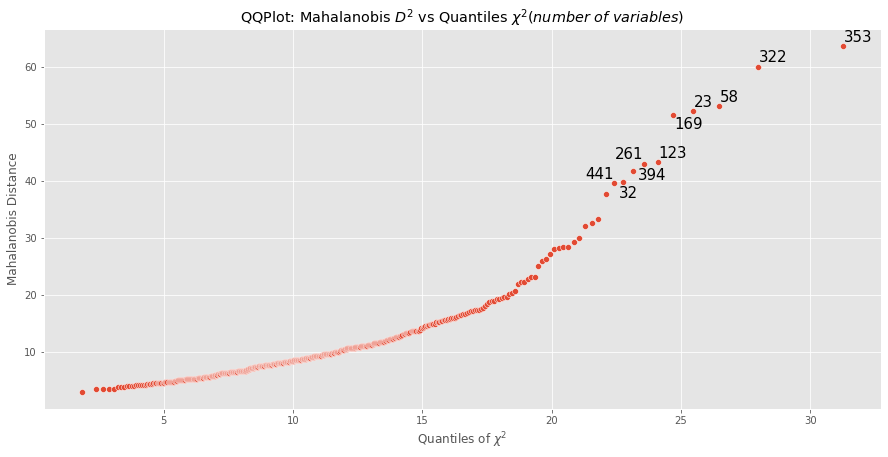
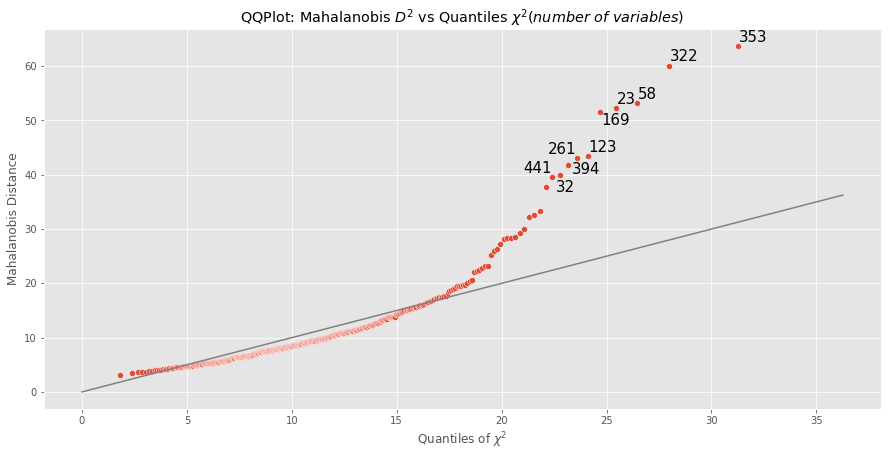
Add line outliers vis function
+ Mispelling errors in visualization py and readme

diff --git a/broomlib/visualization.py b/broomlib/visualization.py
@@ -26,6 +26,7 @@ def missing_bars(data,figsize=(10, 3), style='ggplot'):
     figure
     -----------
     Example:
+    import seaborn as sns
     titanic = sns.load_dataset("titanic")
     missing_bars(titanic, figsize=(10, 3), style='ggplot')
     """
@@ -70,6 +71,7 @@ def missing_heatmap(df, figsize=(12, 10), style='ggplot', cmap='RdYlBu'):
     figure
     -----------
     Example:
+    import seaborn as sns
     titanic = sns.load_dataset("titanic")
     missing_heatmap(titanic, figsize=(6, 4), style='ggplot', cmap='RdYlBu')
     """
@@ -104,6 +106,7 @@ def missing_matrix(df, figsize=(12, 12), style='ggplot', cmap='PuBu'):
     figure
     -----------
     Example:
+    import seaborn as sns
     titanic = sns.load_dataset("titanic")
     missing_matrix(titanic, figsize=(10, 3), style='ggplot', cmap='PuBu')
     '''
@@ -135,7 +138,8 @@ def grid_displots(df, figsize=(12, 4), cols=3, bins=20, style='ggplot', fontsize
     Returns:
     figure
     -----------
-    Example:        
+    Example:
+    import seaborn as sns
     tips = sns.load_dataset('tips')
     grid_displots(tips, figsize=(15, 3), cols=3, bins=20, fontsize=15, y_space=0.5, style='ggplot',)
     """
@@ -176,8 +180,9 @@ def grid_boxplots(df, figsize=(15, 15), cols=3, style='ggplot', fontsize=12, y_s
     figure
     -----------
     Example:
+    import seaborn as sns
     tips = sns.load_dataset('tips')
-    grid_boxplots(tips, figsize=(15, 3), cols=3, bins=20, fontsize=15, y_space=0.5, style='ggplot')
+    grid_boxplots(tips, figsize=(15, 3), cols=3, fontsize=15, y_space=0.5, style='ggplot')
     """
     df= df.loc[:, (df.dtypes == 'int64') | (df.dtypes == 'float64') | (df.dtypes == 'int32')]
     rows = int(np.ceil(float(df.shape[1]) / cols))
@@ -215,7 +220,8 @@ def grid_cat_bars(df, n_categories=10 ,figsize=(12, 4), cols=3, bins=20, style='
     Returns:
     figure
     -----------
-    Example:        
+    Example:
+    import seaborn as sns
     tips = sns.load_dataset('tips')
     grid_cat_bars(tips, figsize=(15, 10), cols=3, fontsize=15, y_space=0.35, style='ggplot',)
     """
@@ -259,7 +265,8 @@ def grid_cat_target_bars(df, target, n_categories=10, figsize=(12, 4), cols=3, b
     Returns:
     figure
     -----------
-    Example:       
+    Example:
+    import seaborn as sns
     titanic = sns.load_dataset("titanic")
     grid_cat_target_bars(titanic, target=titanic['survived'], figsize=(15, 10), cols=3, fontsize=15, y_space=0.55, style='ggplot')
     """
@@ -299,7 +306,8 @@ def corr_bars(data, threshold, figsize=(10, 3), style='ggplot'):
     Returns:
     figure
     -----------
-    Example:       
+    Example:
+    import seaborn as sns
     mpg = sns.load_dataset('mpg')
     corr_bars(mpg, threshold=0.6, figsize=(13, 6))
     """
@@ -327,12 +335,13 @@ def corr_bars(data, threshold, figsize=(10, 3), style='ggplot'):
 
 
 
-def outliers_mahalanobis_plot(x, extreme_points=10, figsize=(15,7), style='ggplot'):
+def outliers_mahalanobis_plot(x = None, extreme_points = 10, style = 'ggplot', figsize = (15,7)):
     """
     -----------
     Function description:
     Shows outliers of dataset. It compares Mahalanobis Distance of each point to Chi Square Distribution. 
-    Points with index are the most extreme ones (outliers) in the dataset. 
+    Points with index are the most extreme points (outliers) in the dataset. Straight line indicates how far 
+    are points from empirical distribution to theoretical one.
     Function works with numerical features.
     -----------
     Parameters:
@@ -345,11 +354,12 @@ def outliers_mahalanobis_plot(x, extreme_points=10, figsize=(15,7), style='ggplo
     figure
     -----------
     Example:
+    import pandas as pd
+    from sklearn import datasets
     diabetes = datasets.load_diabetes()
     df = pd.DataFrame(diabetes.data)
     outliers_mahalanobis_plot(df, extreme_points=10, figsize=(15,7), style='ggplot')
     """
-
     dif = x - np.mean(x)
     cov = np.cov(x.T)
     inv = sp.linalg.inv(cov)
@@ -370,10 +380,12 @@ def outliers_mahalanobis_plot(x, extreme_points=10, figsize=(15,7), style='ggplo
                        for i, txt in enumerate(extreme.index)]
         adjust_text(texto_puntos)
         
+        x = np.linspace(0,extreme.chi[np.argmax(dist)]+5,5)
+        y = x
+        plt.plot(x, y, '-r', color = "blue")
         plt.title(r'QQPlot: Mahalanobis $D^2$ vs Quantiles $\chi^2(number \ of \ variables)$')
         plt.xlabel(r'Quantiles of $\chi^2$')
         plt.ylabel('Mahalanobis Distance')
-    
     return plt.show()
 
  

diff --git a/README/readme_visualization.md b/README/readme_visualization.md
@@ -1,12 +1,19 @@
+# `brommlib visualization`
 
+There are 2 common parameters for broomlib visualizations
+- `figsize`: a numeric tuple. This is usefull to adjust the size and proporcion of the image.
+- `style`: a matplotlib style. Use `plt.style.available` to find out available styles.
+
+<p><br></p>
 
 ## `missing_bars`
 Presents a ‘pandas’ barh plot with the percentage of missings for each feature.
 
 ```
-from broomlib import visualization as bl
+from broomlib import visualization as vis
+import seaborn as sns
 titanic = sns.load_dataset("titanic")
-bl.missing_bars(titanic, figsize=(10, 3), style='ggplot')
+vis.missing_bars(titanic, figsize=(10, 3), style='ggplot')
 ```
 
 ![](images/missing_bars.png)
@@ -18,9 +25,10 @@ bl.missing_bars(titanic, figsize=(10, 3), style='ggplot')
 Presents a ‘seaborn’ visualization of the nulls in the given DataFrame.
 
 ```
-from broomlib import visualization as bl
+from broomlib import visualization as vis
+import seaborn as sns
 titanic = sns.load_dataset("titanic")
-bl.missing_heatmap(titanic, figsize=(6, 4), style='ggplot', cmap='RdYlBu_r')
+vis.missing_heatmap(titanic, figsize=(6, 4), style='ggplot', cmap='RdYlBu_r')
 ```
 
 ![](images/missing_matrix.png)
@@ -32,9 +40,10 @@ bl.missing_heatmap(titanic, figsize=(6, 4), style='ggplot', cmap='RdYlBu_r')
 Presents a ‘seaborn’ heatmap visualization of nullity correlation in the given DataFrame.
 
 ```
-from broomlib import visualization as bl
+from broomlib import visualization as vis
+import seaborn as sns
 titanic = sns.load_dataset("titanic")
-bl.missing_heatmap(titanic, figsize=(6, 4), style='ggplot', cmap='RdYlBu_r')
+vis.missing_heatmap(titanic, figsize=(6, 4), style='ggplot', cmap='RdYlBu_r')
 ```
 
 ![](images/missing_heatmap.png)
@@ -47,9 +56,10 @@ Presents the distribution of each numerical variable.
 Function works with numerical features.
 
 ```
-from broomlib import visualization as bl
+from broomlib import visualization as vis
+import seaborn as sns
 tips = sns.load_dataset('tips')
-bl.grid_displots(tips, figsize=(15, 3), cols=3, bins=20, fontsize=15, y_space=0.5, style='ggplot')
+vis.grid_displots(tips, figsize=(15, 3), cols=3, bins=20, fontsize=15, y_space=0.5, style='ggplot')
 ```
 
 ![](images/grid_displots.png)
@@ -61,9 +71,10 @@ bl.grid_displots(tips, figsize=(15, 3), cols=3, bins=20, fontsize=15, y_space=0.
 Presents a ‘seaborn’ boxplot visualization of each numeric column in the given DataFrame.
 
 ```
-from broomlib import visualization as bl
+from broomlib import visualization as vis
+import seaborn as sns
 tips = sns.load_dataset('tips')
-bl.grid_boxplots(tips, figsize=(12, 3), cols=3, bins=20, fontsize=15, y_space=0.5, style='ggplot')
+vis.grid_boxplots(tips, figsize=(12, 3), cols=3, fontsize=15, y_space=0.5, style='ggplot')
 ```
 
 ![](images/grid_boxplots.png)
@@ -76,9 +87,10 @@ Shows the distribution of each categorical variable compared with the categorica
 Function works with categorical features.
 
 ```
-from broomlib import visualization as bl
+from broomlib import visualization as vis
+import seaborn as sns
 tips = sns.load_dataset('tips')
-bl.grid_cat_bars(tips, figsize=(12, 8), cols=2, fontsize=15, y_space=0.5, style='ggplot')
+vis.grid_cat_bars(tips, figsize=(12, 8), cols=2, fontsize=15, y_space=0.5, style='ggplot')
 ```
 
 ![](images/grid_cat_bars.png)
@@ -91,9 +103,10 @@ Shows the distribution of each categorical variable compared with the categorica
 Function works with categorical features.
 
 ```
-from broomlib import visualization as bl
+from broomlib import visualization as vis
+import seaborn as sns
 titanic = sns.load_dataset("titanic")
-bl.grid_cat_target_bars(titanic, target=titanic['survived'], figsize=(15, 12), cols=3, fontsize=15, y_space=0.55, style='ggplot')
+vis.grid_cat_target_bars(titanic, target=titanic['survived'], figsize=(15, 12), cols=3, fontsize=15, y_space=0.55, style='ggplot')
 ```
 
 ![](images/grid_cat_target_bars.png)
@@ -106,9 +119,10 @@ Presents a Pandas horizontal bar plot of the most correlated feature pairs and t
 Function works with numerical features.
 
 ```
-from broomlib import visualization as bl
+from broomlib import visualization as vis
+import seaborn as sns
 mpg = sns.load_dataset('mpg')
-bl.corr_bars(mpg, threshold=0.6, figsize=(13, 6))
+vis.corr_bars(mpg, threshold=0.6, figsize=(13, 6))
 ```
 
 ![](images/corr_bars.png)
@@ -122,10 +136,11 @@ Points with index are the most extreme ones (outliers) in the dataset.
 Function works with numerical features.
 
 ```
-from broomlib import visualization as bl
+from broomlib import visualization as vis
+from sklearn import datasets
 diabetes = datasets.load_diabetes()
 df = pd.DataFrame(diabetes.data)
-bl.outliers_mahalanobis_plot(df, extreme_points=10, figsize=(15,7), style='ggplot')
+vis.outliers_mahalanobis_plot(df, extreme_points=10, figsize=(15,7), style='ggplot')
 ```
 
 ![](images/outliers_mahalanobis_plot.png)
@@ -136,12 +151,12 @@ bl.outliers_mahalanobis_plot(df, extreme_points=10, figsize=(15,7), style='ggplo
 ## `accuracy_time_ML`
 Presents a visualization of accuracy and time data from machine learning models.
 ```
-from broomlib import visualization as bl
+from broomlib import visualization as vis
 df = pd.DataFrame({'Model': ['Modelo 1', 'Modelo 2', 'Modelo 3'], 
       'Accuracy': [90, 85, 95],
       'Time taken': [25, 30, 50]})
 
-bl.accuracy_time_ML(df, figsize=(12, 6), cmap='RdYlBu', style='ggplot')
+vis.accuracy_time_ML(df, figsize=(12, 6), cmap='RdYlBu', style='ggplot')
 ```
 
 ![](images/accuracy_time_ML.png)
@@ -152,11 +167,11 @@ bl.accuracy_time_ML(df, figsize=(12, 6), cmap='RdYlBu', style='ggplot')
 ## `accuracy_ML`
 Presents a visualization of accuracy given from machine learning models.
 ```
-from broomlib import visualization as bl
+from broomlib import visualization as vis
 df = pd.DataFrame({'Models': ['Model 1', 'Model 2', 'Model 3'], 
       'Accuracy': [90, 85, 95]})
 
-bl.accuracy_ML(df, figsize=(6, 4), cmap='RdYlBu', style='ggplot')
+vis.accuracy_ML(df, figsize=(6, 4), cmap='RdYlBu', style='ggplot')
 ```
 
 ![](images/accuracy_ML.png)
